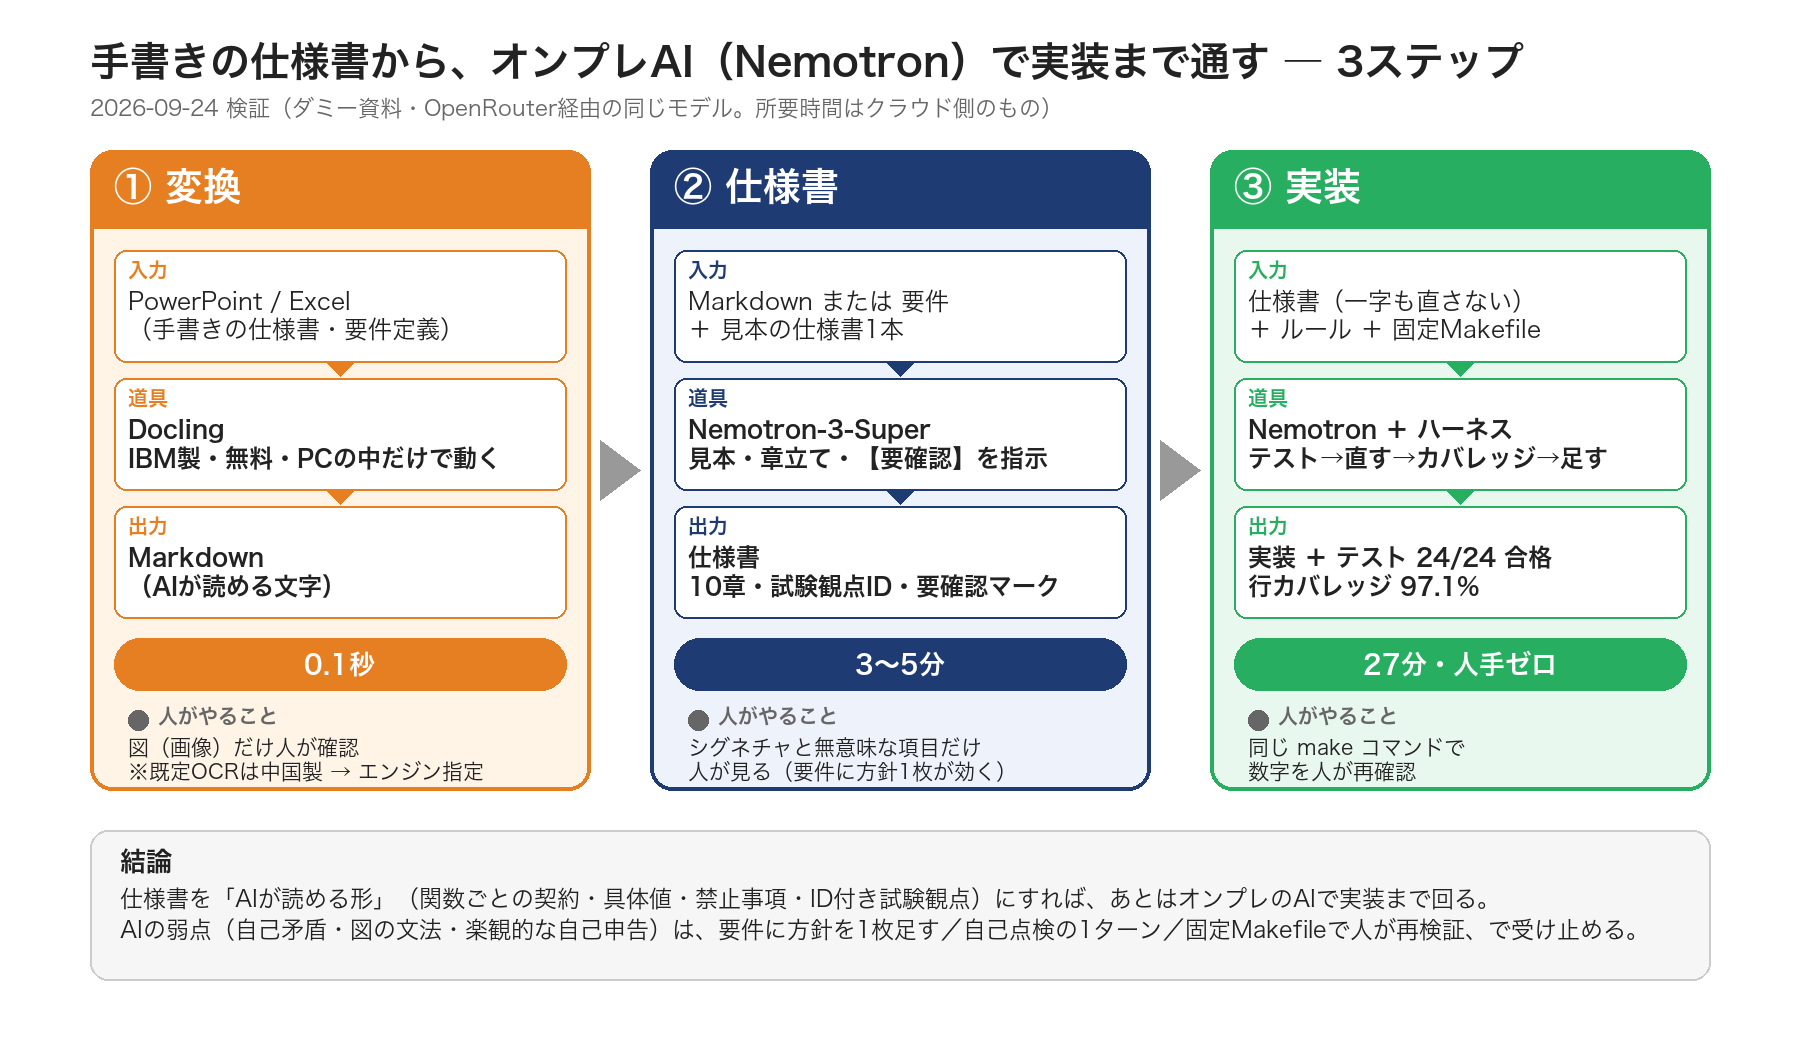
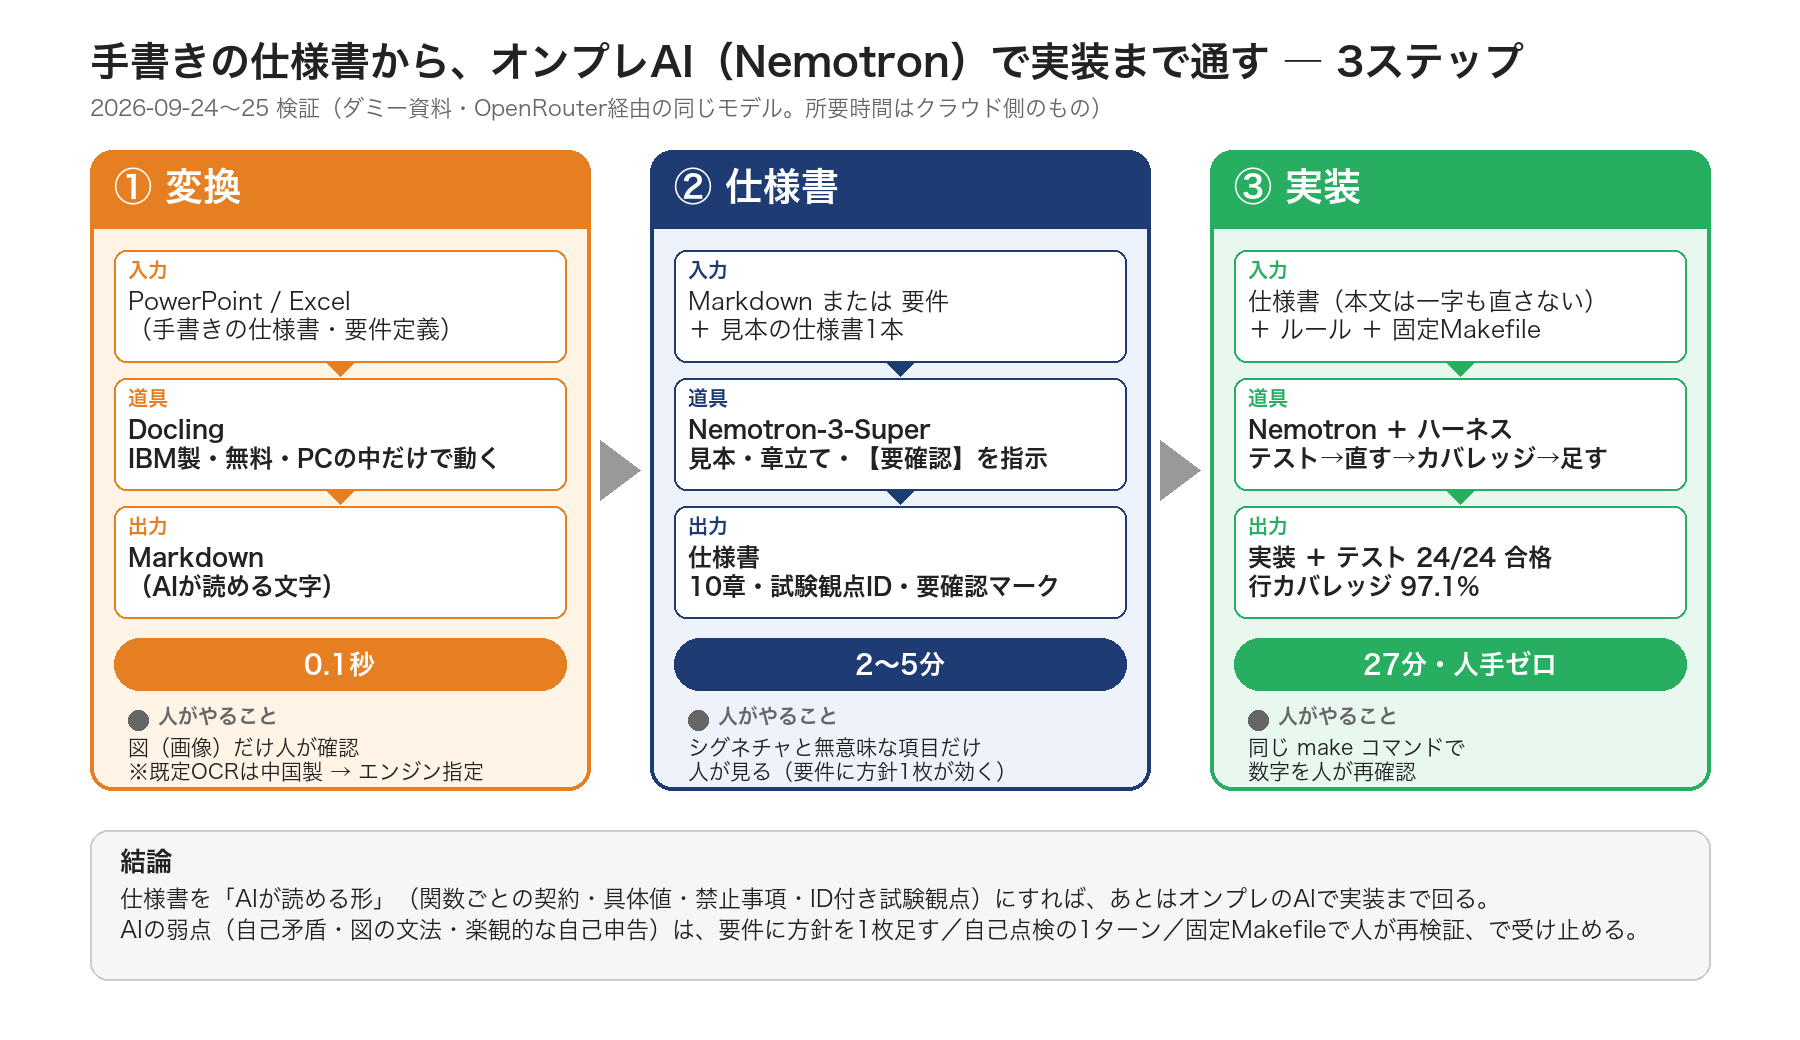
整合性レビュー（6観点・裏取り82件）の反映
- 数字：文字数をバイト→実文字数に（Claude A 13,570 字等）、OCR 実測を証拠ファイルに一致（Apple Vision 0.4 秒・EasyOCR 4.9 秒）、A の所要 2 分 52 秒、「3〜5 分」→「2〜5 分」、実施日 9/24〜25
- 構成：docs/03 に A2 行、docs/02 に持ち込み手順 §8 と参照修正、README に次にやること、お客様向け/02 のファイル名案内を汎用化・タイトルからリポジトリ名を除去、ファイル名を NFC に統一
- 用語：関数仕様は 6 点（目的を含む）に統一、OCR の順位表記、AGENTS.md 混入は B のみと明記、タイトル表記を統一
- 主張：Tesseract・MarkItDown の実測を README・お客様向けに反映、SPEC「一字も直さず」と T-ID の注記、make test 失敗の内訳
- 体裁：ダミー生成スクリプト・見本仕様書・実行ログの表記を整理
- 証拠：gcov を取り直し（Runs:1）、空ディレクトリ削除、図を更新（2〜5分・9/24〜25）

Changed region(s): [[0.1244, 0.0923, 0.6222, 0.1231], [0.7467, 0.2769, 0.8711, 0.3077]]

diff --git a/pattern1_legacy_to_md/make_dummy_inputs.py b/pattern1_legacy_to_md/make_dummy_inputs.py
@@ -1,6 +1,6 @@
 """ダミーの「レガシー仕様書」を作る（PowerPoint + Excel）。
 
-先方の実資料は機密で使えないため、先方の書き方（パワポに細かく／Excelの関数一覧表）を
+先方の実資料は機密で使えないため、その書き方（パワポに細かく／Excelの関数一覧表）を
 模した架空の C ライブラリ仕様書を自作する。実在の製品・顧客とは無関係。
 題材: バブルソート（bubble_sort_i32）と 掃き出し法（gauss_eliminate）。
 6枚目の処理フローは「画像として貼られた図」（テキスト情報を持たない）にして、OCR が要るケースを再現する。

diff --git a/pattern1_legacy_to_md/ocr_figure_compare.py b/pattern1_legacy_to_md/ocr_figure_compare.py
@@ -1,6 +1,7 @@
-"""図（PNG）の中の文字を、中華系でないOCRエンジン2種で直接読み比べる。
+"""図（PNG）の中の文字を、中華系でないOCRエンジン3種で直接読み比べる。
 - ocrmac  : Apple Vision（macOS標準・ローカル・追加ダウンロードなし）
 - easyocr : JaidedAI（タイ）。モデルは GitHub から取得。Linux/Windows でも動く
+- tesseract: Google 発の OSS。Linux/Windows の第一候補（Mac に無ければ Docker の Debian で実行）
 Docling の既定 RapidOCR（PaddleOCR系・中国）は先方NGのため使わない。
 """
 import sys, time

diff --git a/pattern1_legacy_to_md/NOTES.md b/pattern1_legacy_to_md/NOTES.md
@@ -1,6 +1,6 @@
 # パターン①「既存のPPT/Excel仕様書 → Markdown」検証メモ
 
-検証日: 2026-09-24（環境: macOS / Python 3.10 / Docling 2.130.0）
+検証日: 2026-09-24〜25（環境: macOS / Python 3.10 / Docling 2.130.0）
 
 ## 入力（自作ダミー・実資料は不使用）
 - `input/numlib_機能仕様書_v0.9.pptx` … 8枚。表紙／概要／関数仕様×2（表）／エラーコード表／**処理フロー（図のみ・文字情報なし）**／試験観点表／改訂履歴
@@ -13,8 +13,8 @@
 | PPTX | `docling --to md --image-export-mode referenced` | 0.08秒 | 見出し・箇条書き・表は**そのまま使える品質**。図は `*_artifacts/*.png` に書き出され、MDには画像リンクのみ |
 | XLSX | `docling --to md` | 0.02秒 | 3シートとも表として取れる。**シート名は出ない**（表の見出しを人が足す） |
 | 図PNG | Docling経由のOCR（どのエンジンでも） | — | 図全体が「Picture」と判定され**文字はMDに出ない** |
-| 図PNG | OCRを直接実行（Apple Vision / ocrmac） | 0.5秒 | 日本語の文は正確。**数式・添字（`|a[i][k]|` → `1allIk］`）は崩れる** |
-| 図PNG | OCRを直接実行（EasyOCR ja+en, CPU） | 3.7秒 | 行が分断され誤字が多い（選沢／入れ着える／固足）。Linux/Windows での現実的な下限 |
+| 図PNG | OCRを直接実行（Apple Vision / ocrmac） | 0.4秒 | 日本語の文は正確。**数式・添字（`|a[i][k]|` → `1allIk］`）は崩れる** |
+| 図PNG | OCRを直接実行（EasyOCR ja+en, CPU） | 4.9秒 | 行が分断され誤字が多い（選沢／入れ着える／固足）。Linux/Windows での現実的な下限 |
 | 図PNG | OCRを直接実行（**Tesseract 5.3.0**、Debian 12 の Linux コンテナ、`-l jpn+eng --psm 3`） | 0.3秒 | **8工程すべてを文として読めた。** 記号（`|a[i][k]|`→`la[lk]|`）と一部の語（行→47、固定→同定、≠→は）が崩れる。`--psm 6` は見出し1行しか取れず不可。GPU・torch 不要で Linux の第一候補 |
 
 詳細: `output/_flow_gauss.ocr.txt`
@@ -40,7 +40,7 @@
 | 速度 | どちらも 1 秒未満（差なし） | 同左 |
 | PPT の箇条書き | `-` 付きで残る（階層は平坦化） | **箇条書き記号が消えて平文になる**（構造が失われる） |
 | PPT の表 | 再現。セル内の `\|` を `&#124;` に退避 | 再現。ただし **セル内の `\|`（`\|a[k][k]\|`）を退避しないので、その行で表が崩れる** |
-| 識別子の `_` | そのまま | `\_` にエスケープ（`bubble\_sort\_i32`）。AI は読めるが目視で煩い |
+| 識別子の `_` | 見出し・箇条書きは `\_`、表のセル内はそのまま | 全箇所 `\_` にエスケープ（`bubble\_sort\_i32`）。AI は読めるが目視で煩い |
 | PPT の図 | PNG を `*_artifacts/` に書き出しリンク | `![…](Picture2.jpg)` と書くだけで**ファイルは出力されない** |
 | スライド番号 | なし | `<!-- Slide number: N -->` が入る（元スライドへ辿りやすい） |
 | Excel のシート名 | **出ない**（人が見出しを足す） | `## シート名` として出る（こちらが良い） |

diff --git a/pattern2_req_to_spec/COMPARISON.md b/pattern2_req_to_spec/COMPARISON.md
@@ -4,9 +4,9 @@
 
 | 入力 | Nemotron | Claude |
 |---|---|---|
-| **A** 要件 10 行 | 10 章・試験観点 24・**2 分 51 秒**。設計判断とシグネチャの自己矛盾が 1 つ（`double **`） | 10 章・試験観点 71・矛盾なし |
+| **A** 要件 10 行 | 10 章・試験観点 24・**2 分 52 秒**。設計判断とシグネチャの自己矛盾が 1 つ（`double **`） | 10 章・試験観点 71・矛盾なし |
 | **A2** 要件定義書（PPT 8 枚） | 10 章・試験観点 20・要件トレース表・**2 分 40 秒**。要件に方針が書いてあったので矛盾なし | （未実施） |
-| **B** 既存仕様書（PPT/Excel）＋図の OCR | 原資料の T01〜T12 を欠落なく引き継ぎ T13〜T15 を追加、【要確認】18 か所、Mermaid 1 図（文法エラー・引用符で直る）・**5 分 17 秒** | 【要確認】24 か所・Mermaid 2 図（描画可） |
+| **B** 既存仕様書（PPT/Excel）＋図の OCR | 原資料の T01〜T12 を欠落なく引き継ぎ T13〜T15 を追加、【要確認】18 か所、Mermaid 1 図（添字 1 か所ミス＋文法エラー・引用符で直る）・**5 分 17 秒** | 【要確認】24 か所・Mermaid 2 図（描画可） |
 
 費用は Nemotron 1 本あたり 0.5〜0.7 円（OpenRouter 換算）。
 
@@ -16,5 +16,5 @@
 2. 弱点は**一貫性**と**図の文法**。**要件側に方針を 1 枚足す**（A2 で実証）／**生成後に自己点検の 1 ターン**を足す、で消える
 3. Claude との差は**量と丁寧さ**で、正しさの差ではない。埋まらなかった穴は実装のテスト・カバレッジで受け止める（→ [pattern3_impl](../pattern3_impl/)）
 
-注記：A・B の実行時、OpenCode がリポジトリの AGENTS.md を自動で読み込んでいた（§9 のファイル構成に影響。関数仕様・試験観点の評価には影響なし）。A2 は別ディレクトリで実行し混入なし。
+注記：A・B の実行時、OpenCode がリポジトリの AGENTS.md を自動で読み込んでいた（痕跡が確認できたのは B の §9・§8。関数仕様・試験観点の評価には影響なし）。A2 は別ディレクトリで実行し混入なし。
 生成物：各フォルダの `spec_nemotron.md` / `spec_claude.md`。詳しい採点表は [詳細版](https://github.com/ARKLET-1111/ai-driven-spec-demo/blob/main/pattern2_req_to_spec/COMPARISON.md)。

diff --git a/お客様向け/02_リポジトリのご案内.md b/お客様向け/02_リポジトリのご案内.md
@@ -1,4 +1,4 @@
-# 検証リポジトリ `ai-driven-spec-demo` のご案内（簡易版）
+# 検証リポジトリのご案内
 
 作成日: 2026-09-25
 株式会社FriSti
@@ -16,9 +16,9 @@
 | フォルダ・ファイル | 中身 | いつ見るか |
 |---|---|---|
 | `README.md` | 全体の報告書（結果・注意点・次の一手） | 最初に |
-| `docs/01_…仕様書の書き方.md` | AI が読みやすい仕様書の章立てテンプレートと書き方のコツ | 仕様書を書く・書かせるとき |
-| `docs/02_…Markdownにする手順.md` | PowerPoint / Excel → Markdown の手順、OCR エンジンの注意 | 既存資料を変換するとき |
-| `docs/03_プロンプト集と実行コマンド.md` | 使ったプロンプトの全文、実行コマンド、つまずきやすい点 | 実際に動かすとき |
+| `docs/01`（仕様書の書き方） | AI が読みやすい仕様書の章立てテンプレートと書き方のコツ | 仕様書を書く・書かせるとき |
+| `docs/02`（PowerPoint / Excel → Markdown の手順） | PowerPoint / Excel → Markdown の手順、OCR エンジンの注意 | 既存資料を変換するとき |
+| `docs/03`（プロンプトと実行コマンド） | 使ったプロンプトの全文、実行コマンド、つまずきやすい点 | 実際に動かすとき |
 | `pattern1_legacy_to_md/` | ダミーの PPT / Excel と、その変換結果 | 変換の品質を確かめたいとき |
 | `pattern2_req_to_spec/` | Nemotron が書いた仕様書（要件から／要件定義書から／既存資料から）と、商用モデルとの比較 | 生成される仕様書の品質を確かめたいとき |
 | `pattern3_impl/` | 仕様書から Nemotron が実装した C コード・単体試験・カバレッジ結果・実行ログ | 「本当に動いたか」を確かめたいとき |
@@ -33,7 +33,7 @@
 
 ## 4. 手元で試す最短手順
 
-**前提**: Python 3.10 以上、OpenCode、Nemotron-3-Super に接続できる環境（オンプレの vLLM、または OpenRouter）。
+**前提**: Python 3.10 以上、OpenCode、Nemotron-3-Super に接続できる環境（オンプレの vLLM など）。
 
 ```bash
 # ① 既存資料を Markdown に変換する（ネット接続不要・資料は外に出ません）

diff --git a/docs/01_仕様書の書き方.md b/docs/01_仕様書の書き方.md
@@ -20,11 +20,12 @@
 
 見本：[リングバッファ仕様書](https://github.com/ARKLET-1111/ring_buffer_ai_unittest/blob/main/01_ring_buffer_spec.md)（この粒度で書けていれば十分）
 
-## 関数ごとに必ず書く5点
+## 関数ごとに必ず書く6点
 
 | 項目 | 書き方 | 無いと AI は |
 |---|---|---|
 | シグネチャ | 実際の C プロトタイプ | 型や const を勝手に決める |
+| 目的 | 1〜2行 | 何のための関数か推測する |
 | 引数の表 | 引数／意味／制約（非NULL・範囲・破壊してよいか） | NULL チェックがばらつく |
 | 戻り値 | 値ごとの意味（0 / -1 / -2 …） | エラーの種類を潰す |
 | 事後条件 | 成功したとき何が保証されるか | テストの期待値が書けない |
@@ -50,7 +51,7 @@
 | 試験観点（合格の条件） | テストコードそのもの |
 | データの渡し方・命名の方針 | 方針に沿った個々の判断 |
 
-規模が大きければ2段：**人が要件＋方針を1〜2枚 → AI が関数レベルの仕様書 → 人は §4 のシグネチャだけ見る。** 方針を1行ずつ書いた A2 では Nemotron の自己矛盾は出なかった。仕様を薄くした分はテストで受け止める（足して一定）。
+規模が大きければ2段：**人が要件＋方針を1〜2枚 → AI が関数レベルの仕様書 → 人は §4 のシグネチャと無意味な項目だけ見る。** 方針を1行ずつ書いた A2 では Nemotron の自己矛盾は出なかった。仕様を薄くした分はテストで受け止める（足して一定）。
 
 ## AI に書かせるときは
 

diff --git a/docs/03_プロンプトと実行.md b/docs/03_プロンプトと実行.md
@@ -24,9 +24,10 @@ make test && make coverage         # 人が同じコマンドで再確認
 
 オンプレでは `-m` を vLLM 上の Nemotron に変えるだけ。指示文・AGENTS.md・Makefile はそのまま。
 
-## 注意（4つ）
+## 注意（5つ）
 
 1. スクリプトやバックグラウンドから呼ぶときは **`< /dev/null` を付ける**（標準入力待ちで無言で止まる）
 2. 仕様書を書かせるときは **`--agent plan`**（既定の build はファイルを作りに行く）
 3. 実装させるときの権限は [opencode.json](../opencode.json) で絞る（`rm -rf` / `sudo` / `git push` / ネットワーク / パッケージ導入を拒否）
 4. **ビルド・試験・カバレッジの手順は Makefile に固定し、AI に書かせない**。失敗の原因がコードか手順か切り分けられる
+5. **セッションのタイトル生成に別の小モデルが呼ばれる**（ログに `google/gemini-3.8-flash`）。オンプレで外部に一切出したくない場合は、設定の `small_model` もローカルのモデルにする

diff --git a/pattern3_impl/SPEC.md b/pattern3_impl/SPEC.md
@@ -1,4 +1,4 @@
-<!-- この仕様書は Nemotron-3-Super（OpenRouter 経由、OpenCode plan エージェント）が pattern2_req_to_spec/prompts/A_要件から仕様書.md の指示で生成したものを、人手を一切加えずにコピーしたもの。生成: 2026-09-24 13:13〜13:16（2分51秒、入力15,671 / 出力3,099 / 推論691 トークン、$0.003）。既知の要確認点は pattern2_req_to_spec/COMPARISON.md を参照 -->
+<!-- この仕様書は Nemotron-3-Super（OpenRouter 経由、OpenCode plan エージェント）が pattern2_req_to_spec/prompts/A_要件から仕様書.md の指示で生成したものを、人手を一切加えずにコピーしたもの。生成: 2026-09-24 13:13〜13:16（2分52秒、入力15,671 / 出力3,099 / 推論691 トークン、$0.003）。既知の要確認点は pattern2_req_to_spec/COMPARISON.md を参照 -->
 
 # numlib 仕様書
 

diff --git a/AGENTS.md b/AGENTS.md
@@ -1,6 +1,6 @@
 # AGENTS.md（リポジトリ全体）
 
-このリポジトリは「AI駆動開発で使える仕様書の作り方」のデモ。3段構成：
+このリポジトリは「AI駆動開発に使える仕様書の作り方」のデモ。3段構成：
 
 1. `pattern1_legacy_to_md/` … 既存の PowerPoint / Excel 仕様書 → Markdown（Docling）
 2. `pattern2_req_to_spec/` … 要件 or 既存資料 → AIが仕様書を書く（Nemotron-3-Super と Claude の比較）
